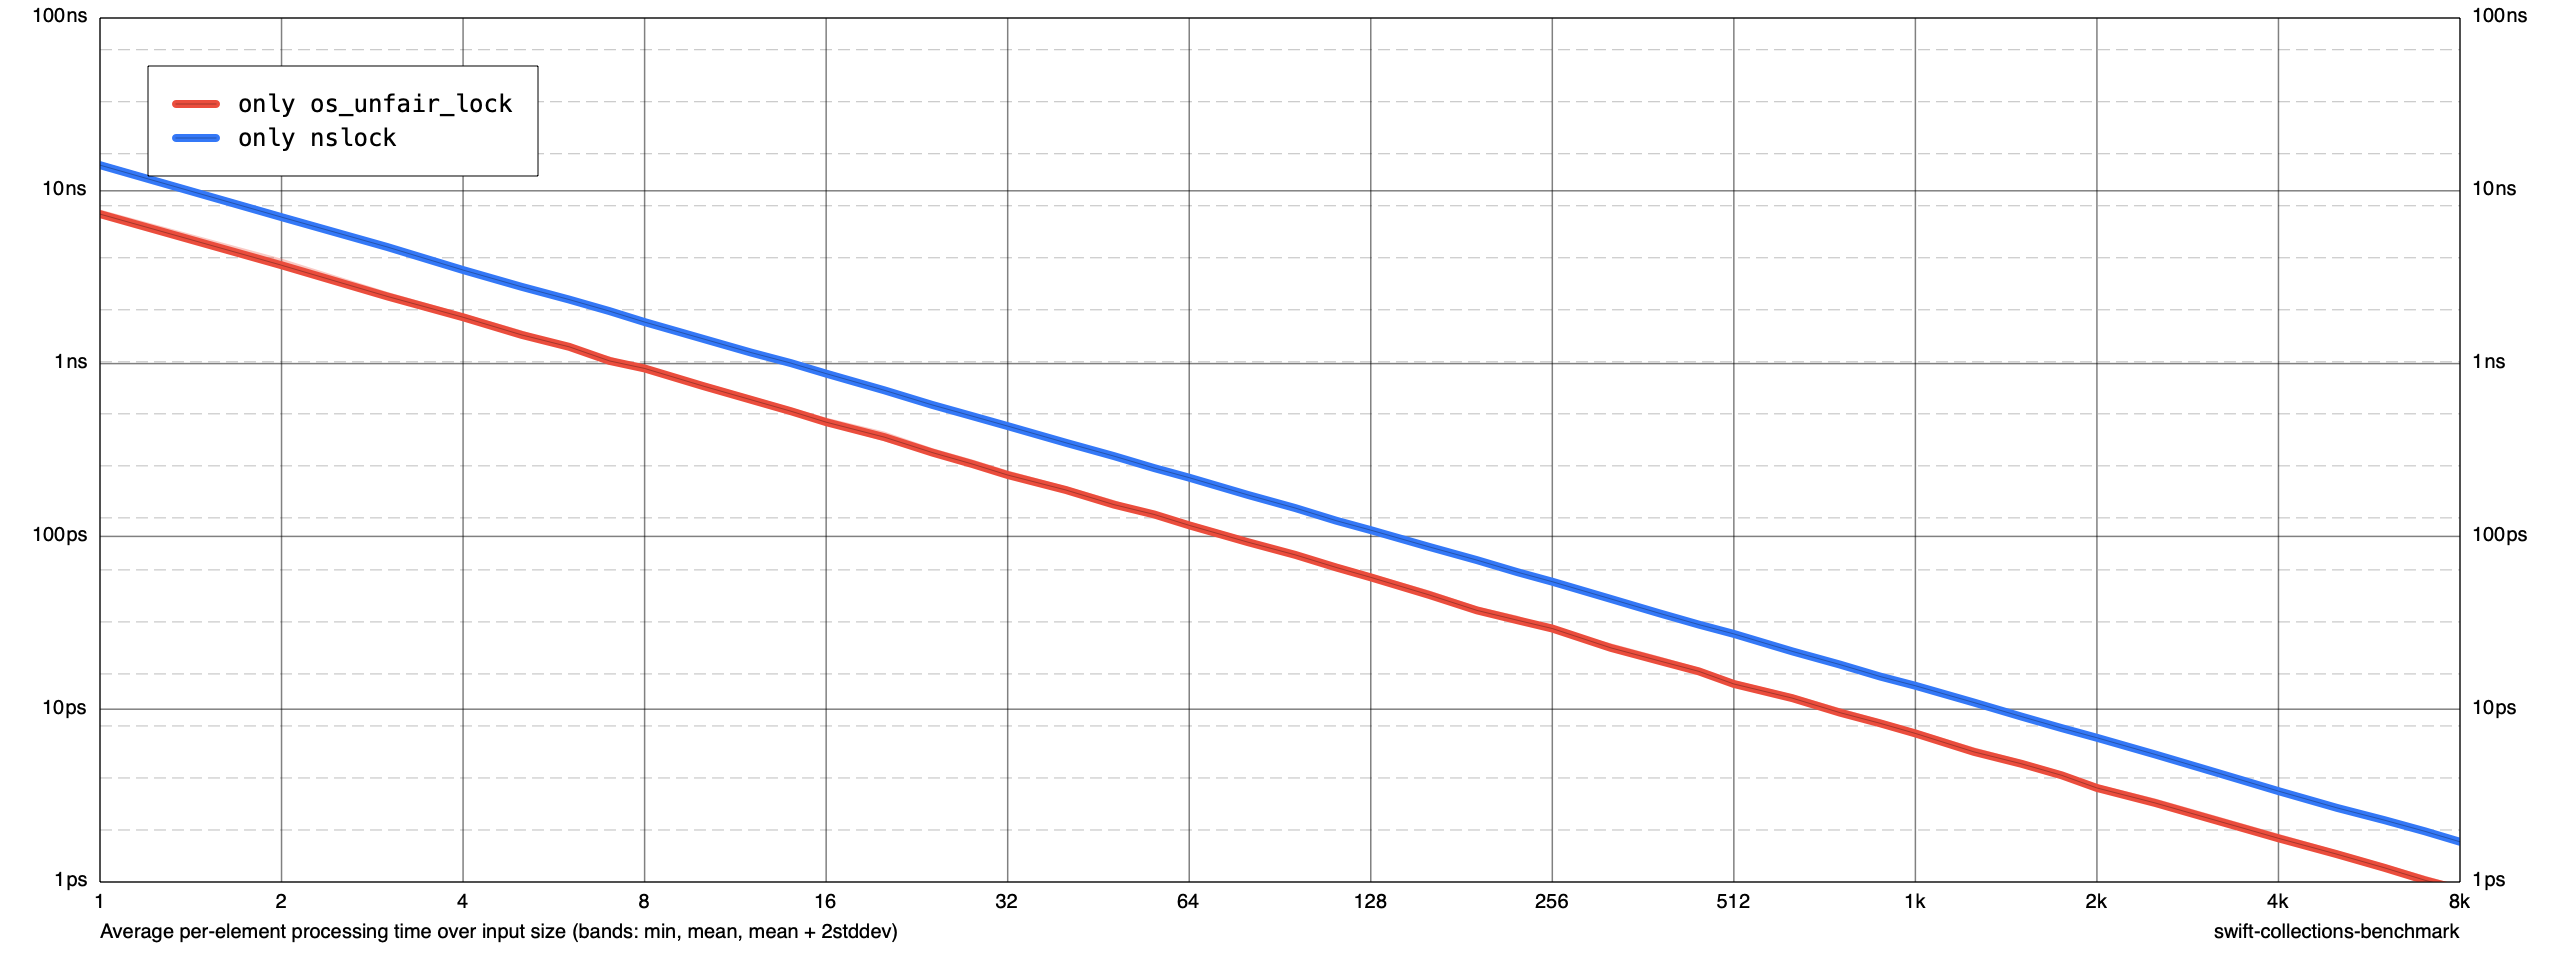
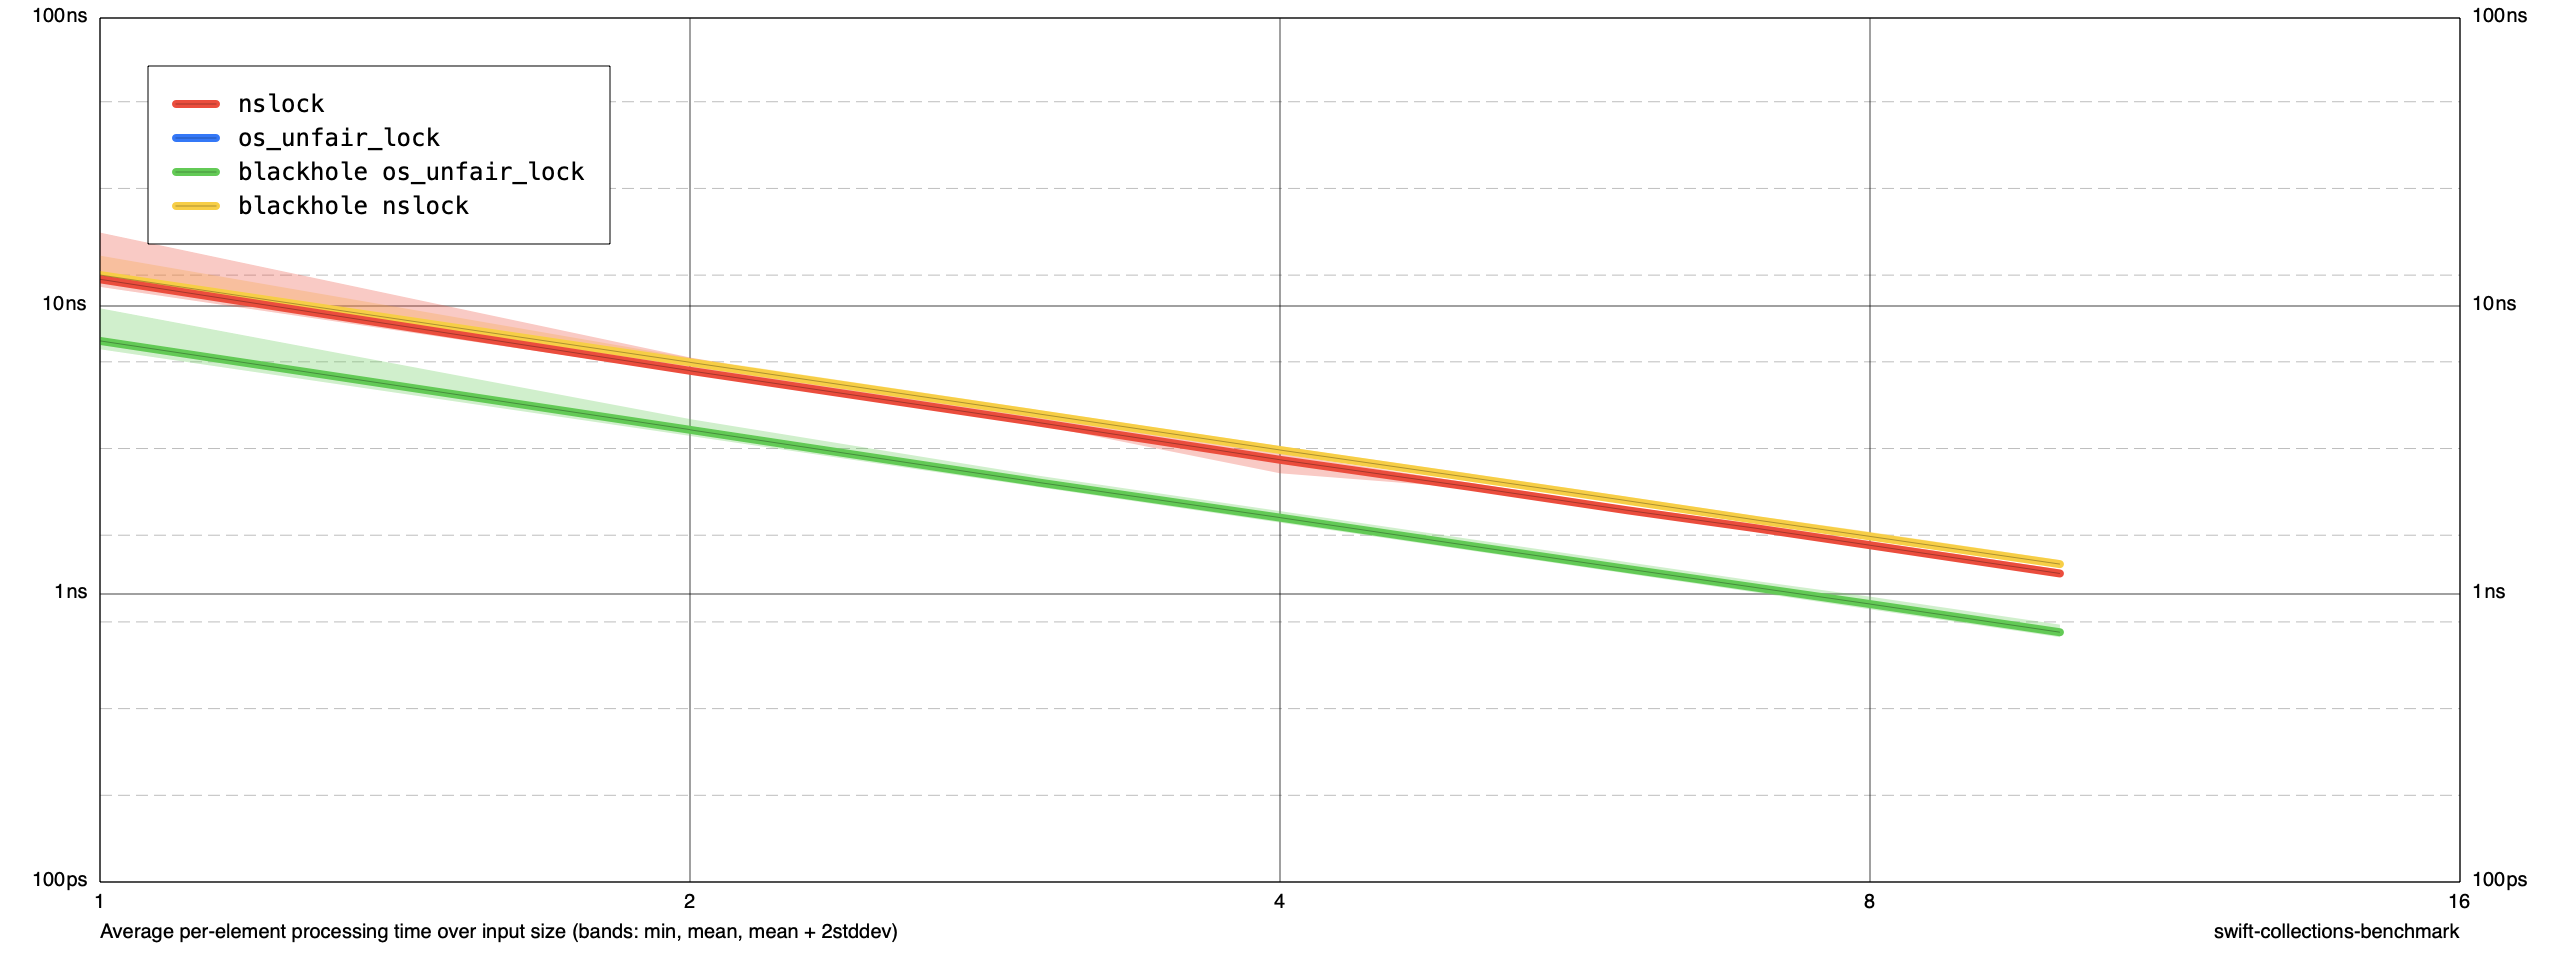
experiments

diff --git a/Sources/sample-benchmark/main.swift b/Sources/sample-benchmark/main.swift
@@ -4,9 +4,9 @@ import Foundation
 // Create a new benchmark instance.
 var benchmark = Benchmark(title: "Locking")
 
-benchmark.registerInputGenerator(for: String.self) { size in
-    return "\(size)"
-}
+//benchmark.registerInputGenerator(for: String.self) { size in
+//    return "\(size)"
+//}
 
 var _oldLock = os_unfair_lock_s()
 let _newLock = NSLock()
@@ -19,9 +19,23 @@ func nslock() {
     _newLock.unlock()
 }
 
+// more complex version of adding a task
+let lockTask = Task<Int>("nslock") { someInt in
+    return { timer in
+        nslock()
+    }
+}
+benchmark.add(lockTask)
+
+benchmark.add(title: "os_unfair_lock", input: Int.self, maxSize: 1) { someInt in
+    return { timer in
+        nslock()
+    }
+}
+
 benchmark.addSimple(
-  title: "only os_unfair_lock",
-  input: String.self
+  title: "blackhole os_unfair_lock",
+  input: Int.self
 ) { input in
   blackHole(
     unfairlock()
@@ -29,8 +43,8 @@ benchmark.addSimple(
 }
 
 benchmark.addSimple(
-  title: "only nslock",
-  input: String.self
+  title: "blackhole nslock",
+  input: Int.self
 ) { input in
   blackHole(
     nslock()

diff --git a/README.md b/README.md
@@ -8,7 +8,7 @@ It's easiest to run from the command line:
 
 ```bash
 rm results
-swift run -c release sample-benchmark run --cycles 5 --max-size 10000 results
+swift run -c release sample-benchmark run --cycles 50 --max-size 10 results
 swift run -c release sample-benchmark render results chart.png
 open chart.png
 ```
